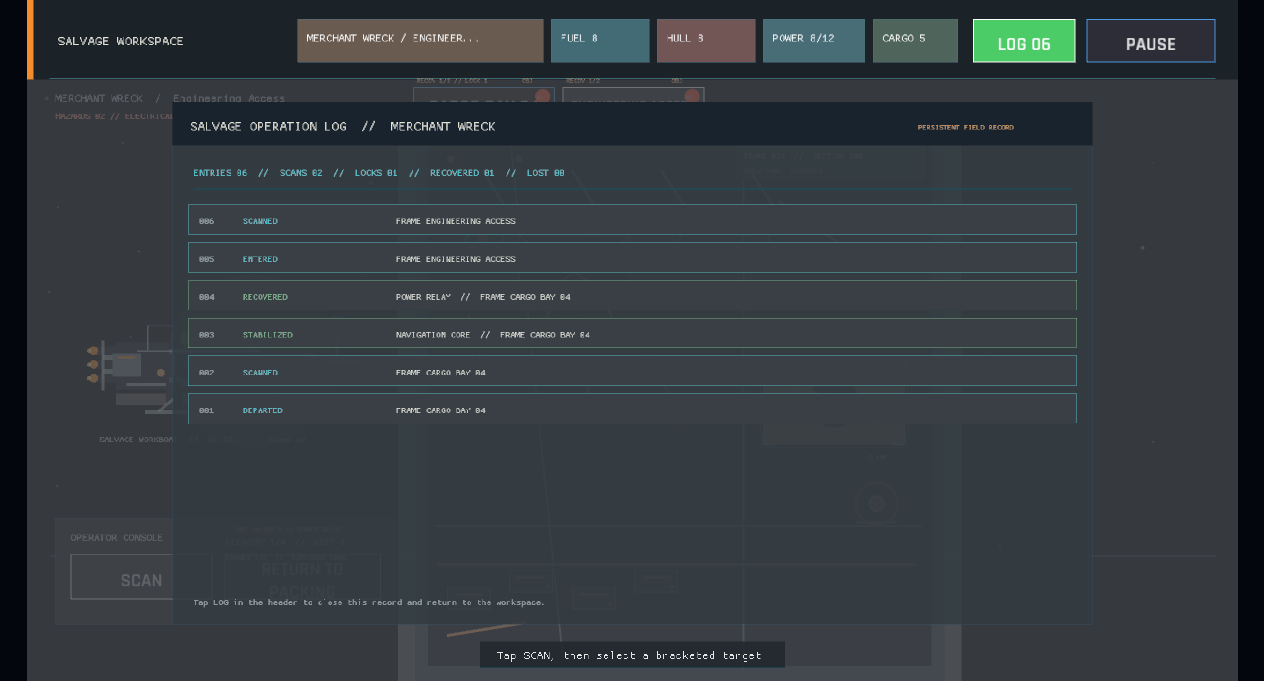
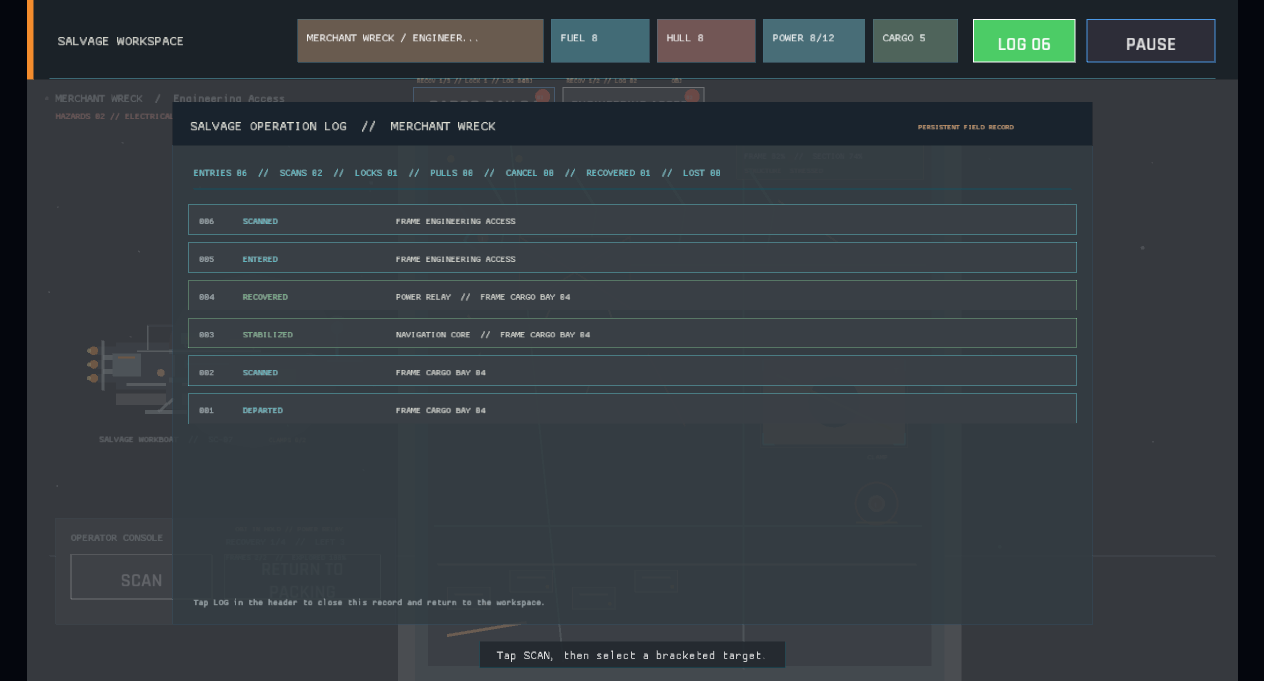
The field record counts the pulls that broke off (operation cancellation trail)
The persistent log summary now separates pull attempts from canceled pulls, while the state regression protects the target attached to a cancellation event. Captures show the expanded operator readout.

diff --git a/src/state/workspace/tests.rs b/src/state/workspace/tests.rs
@@ -207,6 +207,31 @@ fn operation_log_records_workspace_actions_and_survives_a_save() {
 }
 
 #[test]
+fn cancelled_pull_is_recorded_as_a_field_event() {
+    let data = GameData::load().unwrap();
+    let mut session = GameSession::new(&data);
+    session.begin_expedition("merchant_wreck", &data).unwrap();
+    session.scan_workspace(&data).unwrap();
+    session
+        .reserve_workspace_energy("industrial_battery", &data)
+        .unwrap();
+    session.record_workspace_event(
+        WorkspaceLogEvent::ExtractionCancelled,
+        Some("industrial_battery"),
+    );
+
+    let log = session.workspace_log().unwrap();
+    assert_eq!(
+        log.last().map(|entry| entry.event),
+        Some(WorkspaceLogEvent::ExtractionCancelled)
+    );
+    assert_eq!(
+        log.last().and_then(|entry| entry.target_id.as_deref()),
+        Some("industrial_battery")
+    );
+}
+
+#[test]
 fn extraction_explains_when_the_power_reserve_is_empty() {
     let data = GameData::load().unwrap();
     let mut session = GameSession::new(&data);

diff --git a/src/ui/workspace_log.rs b/src/ui/workspace_log.rs
@@ -73,12 +73,22 @@ fn draw_log_summary(entries: &[WorkspaceLogEntry], x: f32, y: f32) {
         .iter()
         .filter(|entry| entry.event == WorkspaceLogEvent::TargetLost)
         .count();
+    let pulls = entries
+        .iter()
+        .filter(|entry| entry.event == WorkspaceLogEvent::ExtractionStarted)
+        .count();
+    let cancelled = entries
+        .iter()
+        .filter(|entry| entry.event == WorkspaceLogEvent::ExtractionCancelled)
+        .count();
     draw_text(
         format!(
-            "ENTRIES {:02}  //  SCANS {:02}  //  LOCKS {:02}  //  RECOVERED {:02}  //  LOST {:02}",
+            "ENTRIES {:02}  //  SCANS {:02}  //  LOCKS {:02}  //  PULLS {:02}  //  CANCEL {:02}  //  RECOVERED {:02}  //  LOST {:02}",
             entries.len(),
             scans,
             locks,
+            pulls,
+            cancelled,
             recovered,
             lost
         ),
